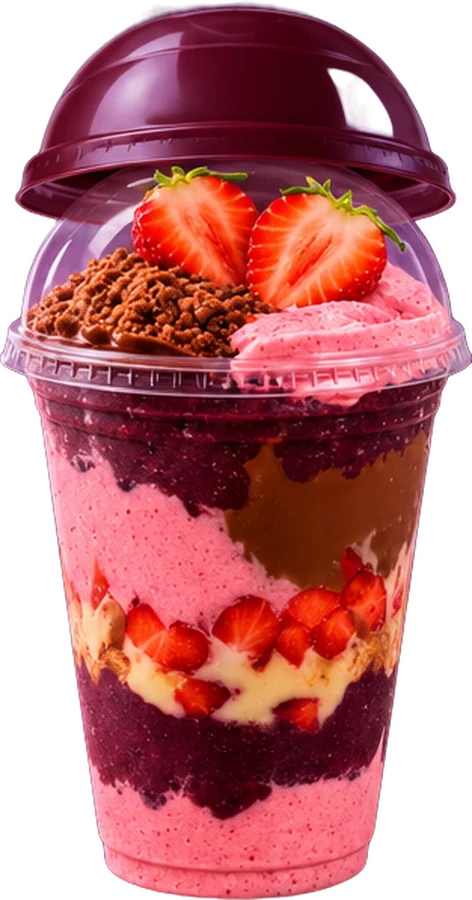
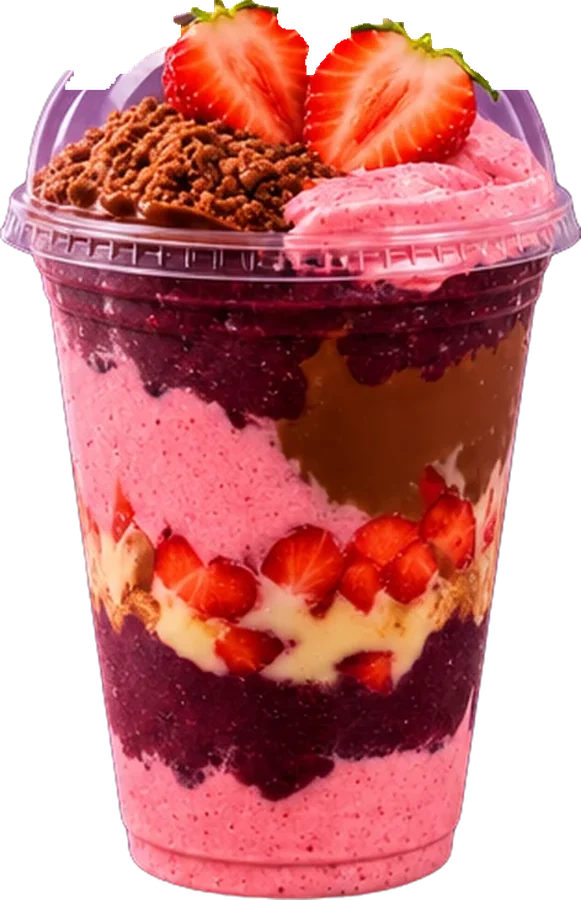
Novidades: tira a tampa bordô da torre e do copo
Claude-Session: https://claude.ai/code/session_01H4JRGunNrdsjAYnKD3Ft2k

diff --git a/components/Novidades.tsx b/components/Novidades.tsx
@@ -16,40 +16,38 @@ type Config = { tom: string; copo: string; proporcaoPilha: number; proporcaoCopo
 const MONTAGENS: Record<string, Config> = {
   "acai-sensacao-maltine": {
     tom: "rosa",
-    copo: L + "s-copo.webp",
-    proporcaoPilha: 0.2979,
-    proporcaoCopo: 0.5244,
+    copo: L + "s-copo.webp?v=2",
+    proporcaoPilha: 0.3398,
+    proporcaoCopo: 0.6456,
     camadas: [
-      { src: L + "s-camada-00.webp", top: 0.0, alt: 13.62 },
-      { src: L + "s-camada-01.webp", top: 12.34, alt: 14.36 },
-      { src: L + "s-camada-02.webp", top: 25.43, alt: 7.66 },
-      { src: L + "s-camada-03.webp", top: 31.81, alt: 8.72 },
-      { src: L + "s-camada-04.webp", top: 39.26, alt: 7.13 },
-      { src: L + "s-camada-05.webp", top: 45.11, alt: 8.72 },
-      { src: L + "s-camada-06.webp", top: 52.55, alt: 10.85 },
-      { src: L + "s-camada-07.webp", top: 62.13, alt: 7.66 },
-      { src: L + "s-camada-08.webp", top: 68.51, alt: 9.26 },
-      { src: L + "s-camada-09.webp", top: 76.49, alt: 8.19 },
-      { src: L + "s-camada-10.webp", top: 83.4, alt: 16.6 },
+      { src: L + "s-camada-01.webp", top: 0.0, alt: 16.38 },
+      { src: L + "s-camada-02.webp", top: 14.93, alt: 8.74 },
+      { src: L + "s-camada-03.webp", top: 22.21, alt: 9.95 },
+      { src: L + "s-camada-04.webp", top: 30.71, alt: 8.13 },
+      { src: L + "s-camada-05.webp", top: 37.38, alt: 9.95 },
+      { src: L + "s-camada-06.webp", top: 45.87, alt: 12.38 },
+      { src: L + "s-camada-07.webp", top: 56.8, alt: 8.74 },
+      { src: L + "s-camada-08.webp", top: 64.08, alt: 10.56 },
+      { src: L + "s-camada-09.webp", top: 73.18, alt: 9.34 },
+      { src: L + "s-camada-10.webp", top: 81.06, alt: 18.94 },
     ],
   },
   "acai-choquito-750": {
     tom: "roxo",
-    copo: L + "c-copo.webp",
-    proporcaoPilha: 0.2857,
-    proporcaoCopo: 0.5178,
+    copo: L + "c-copo.webp?v=2",
+    proporcaoPilha: 0.3257,
+    proporcaoCopo: 0.6556,
     camadas: [
-      { src: L + "c-camada-00.webp", top: 0.0, alt: 13.54 },
-      { src: L + "c-camada-01.webp", top: 12.28, alt: 12.17 },
-      { src: L + "c-camada-02.webp", top: 23.17, alt: 8.15 },
-      { src: L + "c-camada-03.webp", top: 30.05, alt: 8.15 },
-      { src: L + "c-camada-04.webp", top: 36.93, alt: 9.21 },
-      { src: L + "c-camada-05.webp", top: 44.87, alt: 9.21 },
-      { src: L + "c-camada-06.webp", top: 52.8, alt: 9.74 },
-      { src: L + "c-camada-07.webp", top: 61.27, alt: 7.62 },
-      { src: L + "c-camada-08.webp", top: 67.62, alt: 7.62 },
-      { src: L + "c-camada-09.webp", top: 73.97, alt: 10.26 },
-      { src: L + "c-camada-10.webp", top: 82.96, alt: 17.04 },
+      { src: L + "c-camada-01.webp", top: 0.0, alt: 13.87 },
+      { src: L + "c-camada-02.webp", top: 12.41, alt: 9.29 },
+      { src: L + "c-camada-03.webp", top: 20.26, alt: 9.29 },
+      { src: L + "c-camada-04.webp", top: 28.1, alt: 10.5 },
+      { src: L + "c-camada-05.webp", top: 37.15, alt: 10.5 },
+      { src: L + "c-camada-06.webp", top: 46.19, alt: 11.1 },
+      { src: L + "c-camada-07.webp", top: 55.85, alt: 8.69 },
+      { src: L + "c-camada-08.webp", top: 63.09, alt: 8.69 },
+      { src: L + "c-camada-09.webp", top: 70.33, alt: 11.7 },
+      { src: L + "c-camada-10.webp", top: 80.57, alt: 19.43 },
     ],
   },
 };

diff --git a/lib/fotosPadrao.ts b/lib/fotosPadrao.ts
@@ -25,7 +25,7 @@ function fotoAdicional(nome: string) {
 }
 
 /** Fotos trocadas depois de publicadas: o "?v=" faz o navegador baixar de novo. */
-const VERSAO: Record<string, number> = { "acai-choquito-750": 4, "acai-sensacao-maltine": 4 };
+const VERSAO: Record<string, number> = { "acai-choquito-750": 5, "acai-sensacao-maltine": 5 };
 const comVersao = (url: string | undefined) => {
   const m = url?.match(/^\/fotos\/cardapio\/([a-z0-9-]+)\.jpg$/);
   return m && VERSAO[m[1]] ? `${url}?v=${VERSAO[m[1]]}` : url;
